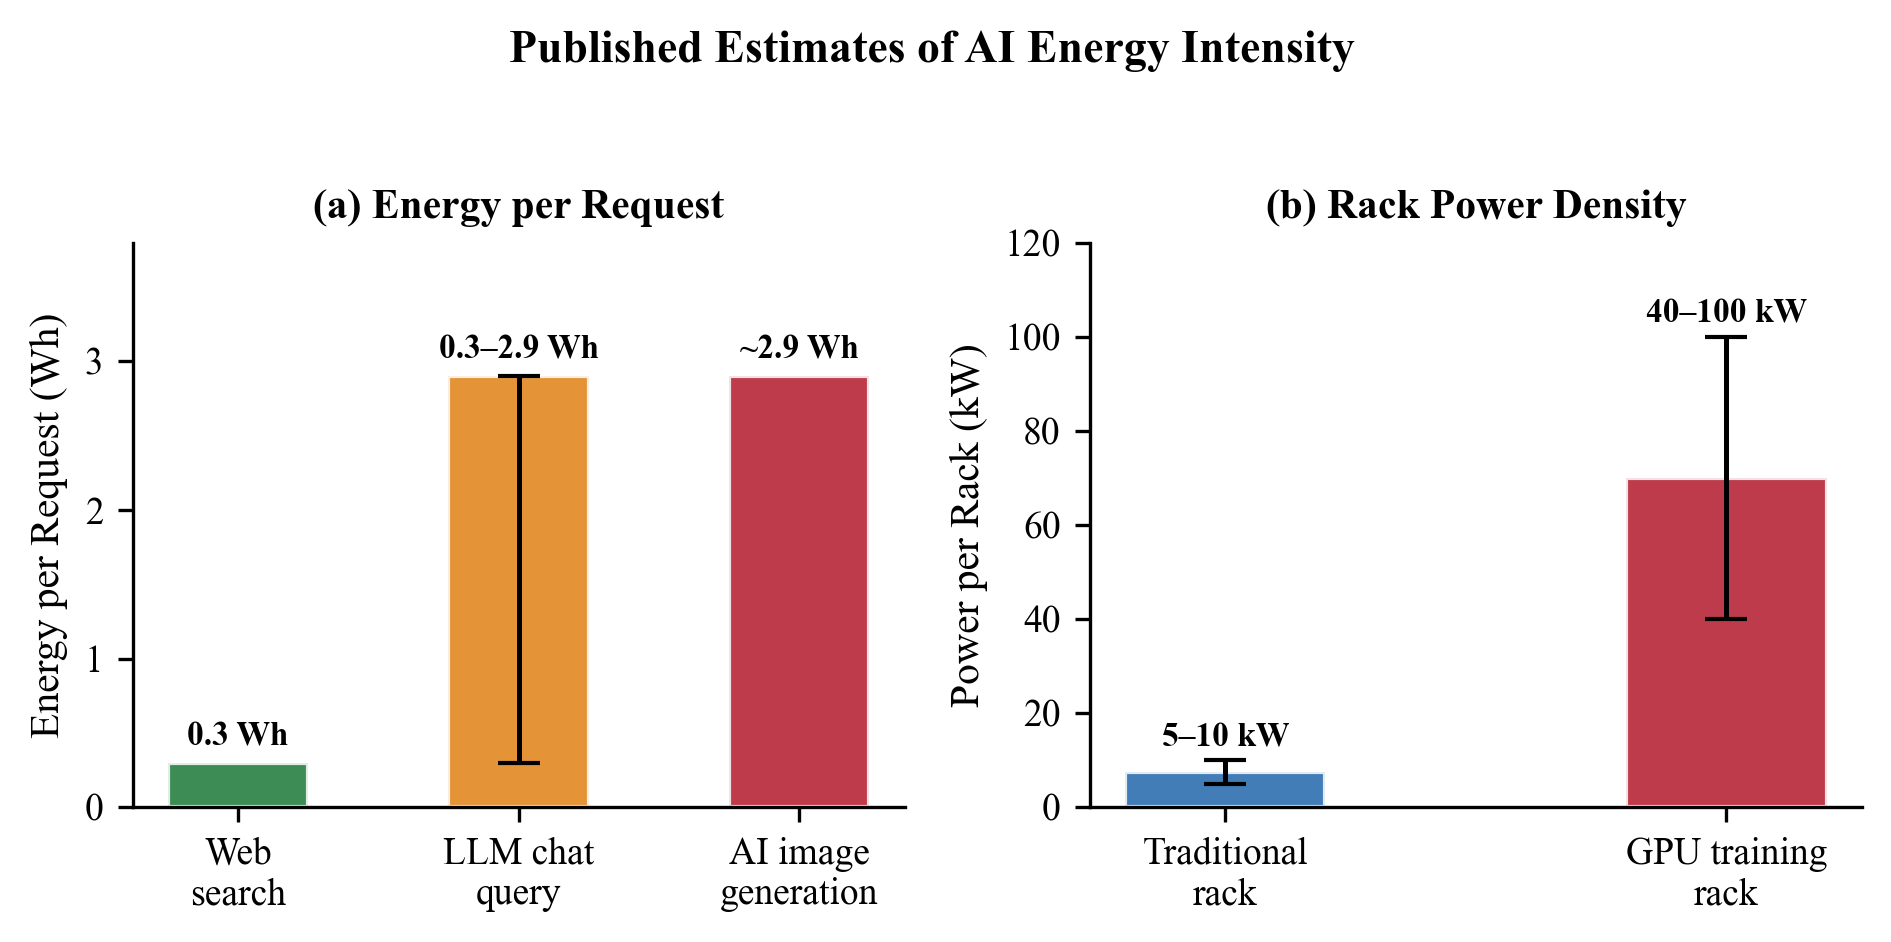
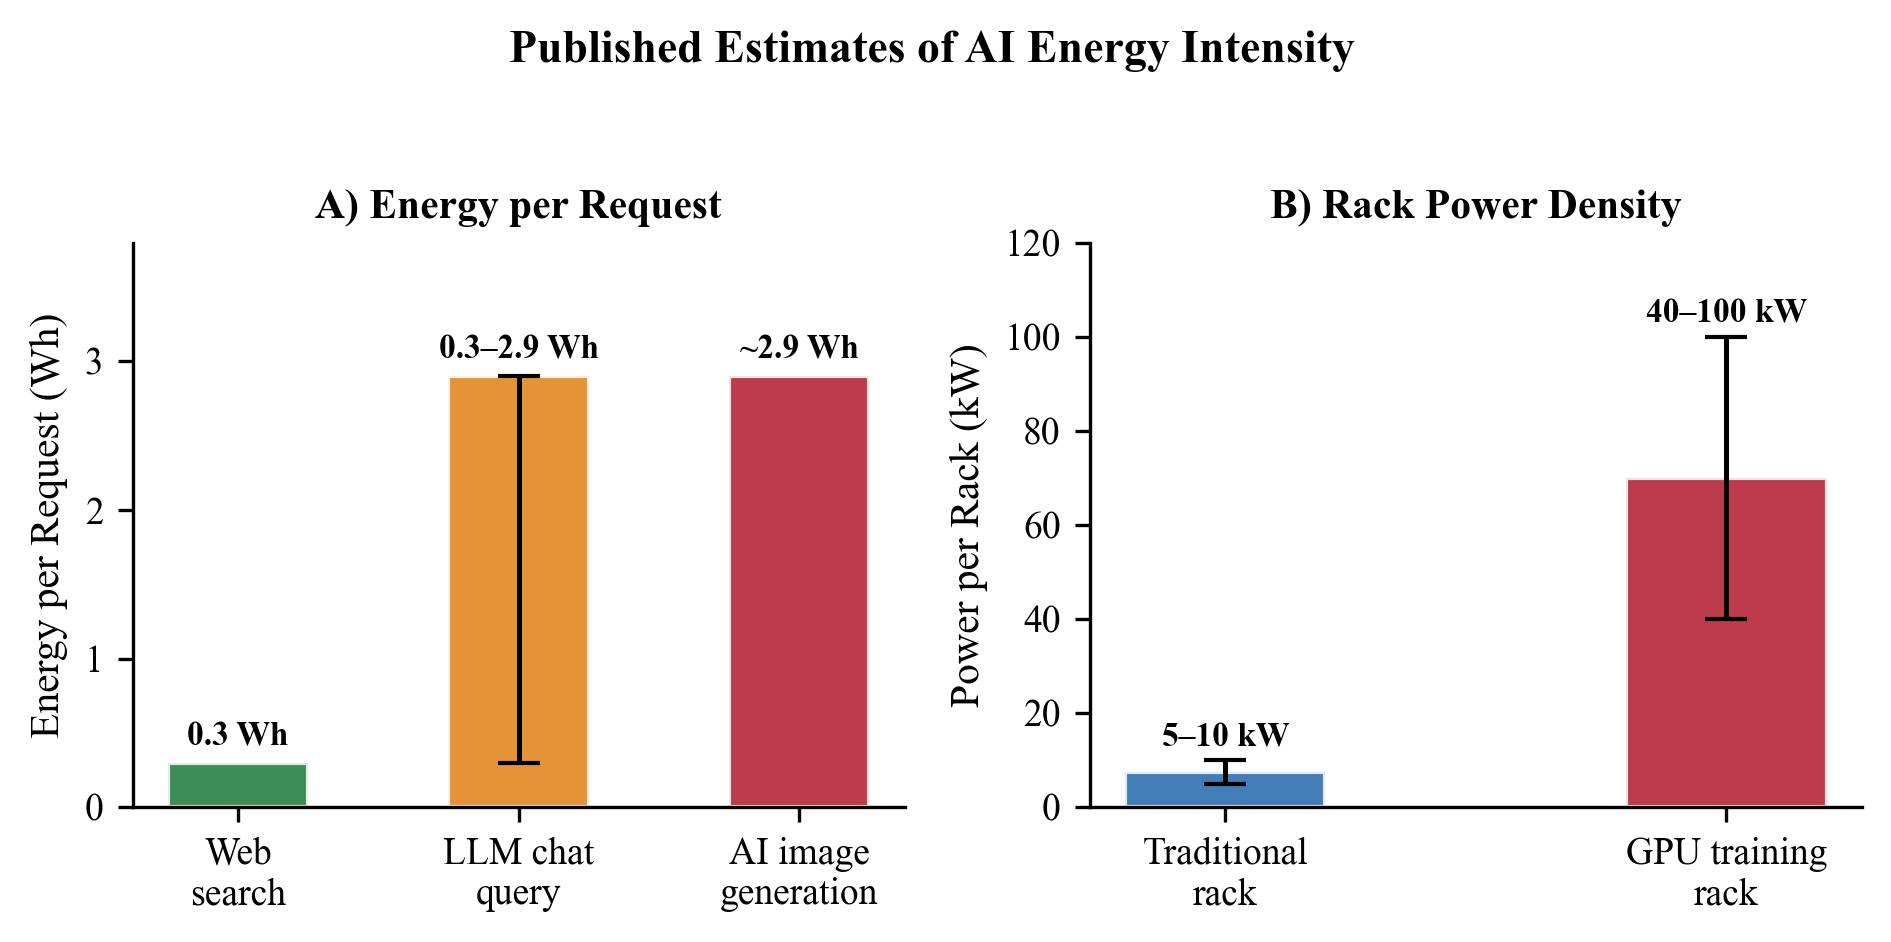
Use A)/B) panel labels to match the NHSJS caption style

Changed region(s): [[0.6552, 0.1847, 0.9048, 0.2463], [0.156, 0.1847, 0.3744, 0.2463]]

diff --git a/04_generate_figures.py b/04_generate_figures.py
@@ -81,7 +81,7 @@ def fig02_ai_energy():
     for i, t in enumerate(labels):
         ax1.text(i, high[i] + 0.12, t, ha="center", fontsize=8, fontweight="bold")
     ax1.set_ylabel("Energy per Request (Wh)")
-    ax1.set_title("(a) Energy per Request", fontweight="bold", fontsize=10)
+    ax1.set_title("A) Energy per Request", fontweight="bold", fontsize=10)
     ax1.set_ylim(0, 3.8)
 
     racks = ["Traditional\nrack", "GPU training\nrack"]
@@ -93,7 +93,7 @@ def fig02_ai_energy():
     for i in range(2):
         ax2.text(i, r_high[i] + 3, f"{r_low[i]}\u2013{r_high[i]} kW", ha="center", fontsize=8, fontweight="bold")
     ax2.set_ylabel("Power per Rack (kW)")
-    ax2.set_title("(b) Rack Power Density", fontweight="bold", fontsize=10)
+    ax2.set_title("B) Rack Power Density", fontweight="bold", fontsize=10)
     ax2.set_ylim(0, 120)
     fig.suptitle("Published Estimates of AI Energy Intensity", fontweight="bold", fontsize=11, y=1.03)
     fig.tight_layout()
@@ -121,7 +121,7 @@ def fig03_embodied_vs_operational():
     ax1.set_ylabel("kg CO\u2082e over lifetime")
     ax1.set_ylim(-2300, 12500)
     ax1.axhline(0, color="black", lw=0.5)
-    ax1.set_title(f"(a) At U.S. average grid\n({US_GRID_EMISSION_FACTOR} kg CO\u2082/kWh)",
+    ax1.set_title(f"A) At U.S. average grid\n({US_GRID_EMISSION_FACTOR} kg CO\u2082/kWh)",
                   fontweight="bold", fontsize=9)
     ax1.legend(fontsize=7, loc="upper left")
 
@@ -145,7 +145,7 @@ def fig03_embodied_vs_operational():
     ax2.set_ylabel("Embodied share of lifetime emissions (%)")
     ax2.set_ylim(0, 100)
     ax2.set_xlim(0, 800)
-    ax2.set_title("(b) Embodied share vs. grid intensity", fontweight="bold", fontsize=9)
+    ax2.set_title("B) Embodied share vs. grid intensity", fontweight="bold", fontsize=9)
     ax2.legend(fontsize=6.5, loc="upper right")
     fig.tight_layout()
     save_fig(fig, "fig03_embodied_vs_operational.png")
@@ -175,7 +175,7 @@ def fig05_pue_and_subsystems(df):
     ax1.plot(daily.index, daily.rolling(30, center=True, min_periods=10).mean(), lw=2, color=RED,
              label="30-day rolling mean")
     ax1.set_ylabel("PUE")
-    ax1.set_title("(a) Hourly-derived PUE, daily averages", fontweight="bold", fontsize=10)
+    ax1.set_title("A) Hourly-derived PUE, daily averages", fontweight="bold", fontsize=10)
     ax1.legend(fontsize=7, loc="upper left")
 
     for col, color, label in [("hvac_kw", RED, "HVAC"), ("pump_kw", TEAL, "Pumps"),
@@ -189,7 +189,7 @@ def fig05_pue_and_subsystems(df):
     h1, l1 = ax2.get_legend_handles_labels()
     h2, l2 = ax3.get_legend_handles_labels()
     ax2.legend(h1 + h2, l1 + l2, fontsize=7, loc="upper left", ncol=2)
-    ax2.set_title("(b) Monthly mean power by subsystem", fontweight="bold", fontsize=10)
+    ax2.set_title("B) Monthly mean power by subsystem", fontweight="bold", fontsize=10)
     for a in (ax1, ax2):
         a.axvline(pd.Timestamp("2024-04-01"), color=PURPLE, ls=":", lw=1.2)
     ax2.text(pd.Timestamp("2024-03-01"), ax2.get_ylim()[1] * 0.55, "Apr 2024", fontsize=7, color=PURPLE,
@@ -216,7 +216,7 @@ def fig06_correlations(df, results):
     ax_hm.set_yticks(range(len(cols)))
     ax_hm.set_xticklabels(labels, rotation=45, ha="right", fontsize=8)
     ax_hm.set_yticklabels(labels, fontsize=8)
-    ax_hm.set_title("(a) Pearson correlation matrix", fontweight="bold", fontsize=10)
+    ax_hm.set_title("A) Pearson correlation matrix", fontweight="bold", fontsize=10)
     plt.colorbar(im, ax=ax_hm, shrink=0.8, label="Pearson r")
 
     c = results["correlations"]
@@ -236,7 +236,7 @@ def fig06_correlations(df, results):
     xmin = min(0, lo.min()) - 0.05
     ax_bar.set_xlim(xmin, max(0.45, hi.max() + 0.25))
     ax_bar.set_xlabel("Pearson r with outdoor temperature (95% block-bootstrap CI)")
-    ax_bar.set_title("(b) Temperature vs. energy subsystems", fontweight="bold", fontsize=10)
+    ax_bar.set_title("B) Temperature vs. energy subsystems", fontweight="bold", fontsize=10)
     fig.suptitle(f"Pearson Correlation Analysis (n = {len(df):,} hours)", fontweight="bold", fontsize=11, y=1.02)
     fig.tight_layout()
     save_fig(fig, "fig06_correlation_analysis.png")
@@ -268,8 +268,8 @@ def fig08_monthly(df):
     colors = ["#4575B4", "#4575B4", "#74ADD1", "#ABD9E9", "#ABD9E9", "#F46D43",
               "#D73027", "#D73027", "#F46D43", "#ABD9E9", "#ABD9E9", "#4575B4"]
     fig, (ax1, ax2) = plt.subplots(1, 2, figsize=(6.5, 3))
-    for ax, col, ylabel, title in [(ax1, "cooling_kw", "Cooling Power (kW)", "(a) Monthly Cooling Power"),
-                                   (ax2, "pue", "PUE", "(b) Monthly PUE")]:
+    for ax, col, ylabel, title in [(ax1, "cooling_kw", "Cooling Power (kW)", "A) Monthly Cooling Power"),
+                                   (ax2, "pue", "PUE", "B) Monthly PUE")]:
         bp = ax.boxplot([df[df["local_month"] == m][col] for m in range(1, 13)], tick_labels=MONTHS,
                         patch_artist=True, widths=0.6, showfliers=False)
         for patch, color in zip(bp["boxes"], colors):
@@ -302,7 +302,7 @@ def fig09_model_performance(results):
     ax1.axhline(0, color="black", lw=0.5)
     ax1.set_ylabel("Test R\u00B2")
     ax1.set_ylim(min(-0.1, ax1.get_ylim()[0]), 1.0)
-    ax1.set_title("(a) Model B accuracy by validation method", fontweight="bold", fontsize=9)
+    ax1.set_title("A) Model B accuracy by validation method", fontweight="bold", fontsize=9)
     ax1.legend(fontsize=6.5, loc="upper left")
 
     imp = mb["rf_importance"]["rolling_origin_folds"]
@@ -319,7 +319,7 @@ def fig09_model_performance(results):
     ax2.set_yticklabels([FEATURE_LABELS[f] for f in feats])
     ax2.set_xlim(0, 1.05)
     ax2.set_xlabel("Share of total importance (mean \u00B1 SD across folds)")
-    ax2.set_title("(b) Random Forest feature importance\n(rolling-origin folds)", fontweight="bold", fontsize=9)
+    ax2.set_title("B) Random Forest feature importance\n(rolling-origin folds)", fontweight="bold", fontsize=9)
     ax2.legend(fontsize=6.5, loc="lower right")
     fig.suptitle("Predicting Cooling Power (Model B)", fontweight="bold", fontsize=11, y=0.99)
     fig.tight_layout()
@@ -329,8 +329,8 @@ def fig09_model_performance(results):
 def fig10_actual_vs_predicted(results):
     fig, axes = plt.subplots(1, 2, figsize=(7.5, 3.8), sharex=True, sharey=True)
     rf = results["model_b"]["random_forest"]
-    for ax, key, scheme, title in [(axes[0], "random", "random_split", "(a) Random 80/20 split"),
-                                   (axes[1], "chrono", "chronological_split", "(b) Chronological split")]:
+    for ax, key, scheme, title in [(axes[0], "random", "random_split", "A) Random 80/20 split"),
+                                   (axes[1], "chrono", "chronological_split", "B) Chronological split")]:
         p = pd.read_csv(os.path.join(TABLE_DIR, f"model_b_rf_predictions_{key}.csv"), index_col=0)
         ax.scatter(p["actual"], p["predicted"], s=4, alpha=0.15, color=GREEN, edgecolors="none")
         mx = max(p["actual"].max(), p["predicted"].max())
@@ -356,9 +356,9 @@ def fig11_projections(results):
         ax2.plot(d["years"], d["co2_mt"], color=color, ls=ls, lw=2, marker="o", ms=3.5, label=d["label"])
     ax1.plot(2030, IEA_BASE_CASE_2030_TWH, marker="*", color="black", ms=10, ls="none", label="IEA base case 2030")
     ax1.set_ylabel("Electricity (TWh)")
-    ax1.set_title("(a) Electricity demand", fontweight="bold", fontsize=10)
+    ax1.set_title("A) Electricity demand", fontweight="bold", fontsize=10)
     ax2.set_ylabel("CO\u2082 Emissions (Mt)")
-    ax2.set_title("(b) CO\u2082 emissions", fontweight="bold", fontsize=10)
+    ax2.set_title("B) CO\u2082 emissions", fontweight="bold", fontsize=10)
     for a in (ax1, ax2):
         a.set_xlabel("Year")
         a.grid(True, alpha=0.3)
